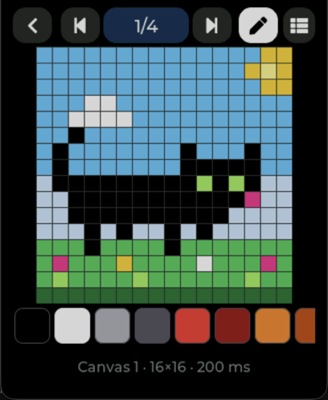
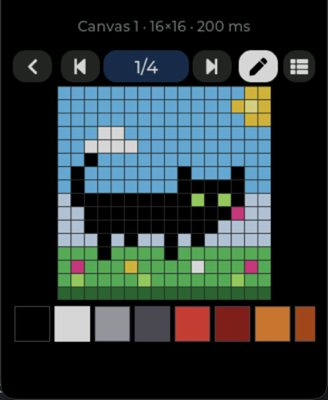
Pixel Art: nothing touchable above y = 56, the panel's other dead strip
Measured on the board: six taps on the editor's bar at y = 8..48 all
arrived as y = 55. The digitiser clamps at the top exactly as it does at
the bottom, so the usable touch window is 55..395. AOS_TOUCH_Y_MIN joins
AOS_TOUCH_Y_MAX in aos_hal.h, HARDWARE.md says so, and the app moves its
bar to 56..92, shrinks the canvas to 240 px and keeps the palette above
390. The status line goes into the top dead strip, which is only read.

diff --git a/apps/pixel/main/pixel.c b/apps/pixel/main/pixel.c
@@ -22,10 +22,10 @@
  *     Nothing is destroyed from inside an event callback, which is the rule
  *     this system enforces the hard way.
  *
- * Layout, dictated by the panel (see HARDWARE.md): nothing touchable below
- * y=390, the glass corners eat the first rows, so the bar is at y=8..48, the
- * canvas at 52..340, the palette strip at 344..386, and the dead strip at the
- * bottom carries the one line that is only read.
+ * Layout, dictated by the panel (see HARDWARE.md): the digitiser reports
+ * nothing above y=55 nor below y=395, so the bar is at y=56..92, the canvas
+ * at 96..336, the palette strip at 340..386, and the two dead strips carry
+ * the title and the status line, which are only read.
  */
 #include "aos_app.h"
 #include "aos_fonts.h"
@@ -45,13 +45,18 @@
 
 #define TAG             "pixel"
 
-#define CV_PX           288                 /* canvas side, px              */
-#define CV_X            40
-#define CV_Y            52
-#define BAR_Y           8
-#define BAR_H           40
-#define STRIP_Y         344
-#define STRIP_H         42
+/* The touch window of this panel is y = 55..395 (both measured, see
+ * AOS_TOUCH_Y_MIN / AOS_TOUCH_Y_MAX in aos_hal.h): 340 px for everything
+ * that has to be touched. The bar starts at 56, the canvas is 240 px so that
+ * a comfortable palette strip still fits above 390, and the top and bottom
+ * dead strips carry the title and the status line, which are only read. */
+#define CV_PX           240                 /* canvas side, px              */
+#define CV_X            64
+#define CV_Y            96
+#define BAR_Y           56
+#define BAR_H           36
+#define STRIP_Y         340
+#define STRIP_H         46
 #define SWATCH          40
 #define INFO_Y          400                 /* the dead strip: text only    */
 
@@ -536,12 +541,12 @@ static void build_gallery(app_t *a, lv_obj_t *root)
 
     bar_button(a->gal, LV_SYMBOL_LEFT, 14, 44, AOS_C_CARD2, gal_back_cb, a, NULL);
     lv_obj_t *title = aos_label(a->gal, "Pixel Art", aos_font_title, AOS_C_TEXT);
-    lv_obj_align(title, LV_ALIGN_TOP_MID, 0, 12);
+    lv_obj_align(title, LV_ALIGN_TOP_MID, 0, 12);      /* dead strip: text only */
 
     for (int i = 0; i < PX_SLOTS; i++) {
         int col = i % 4, row = i / 4;
         int32_t x = TH_X0 + col * (TH_BOX + TH_GAP);
-        int32_t y = 68 + row * (TH_BOX + 40);
+        int32_t y = 104 + row * (TH_BOX + 40);
 
         /* The canvas is the slot: clickable itself, border and badge painted
          * inside its buffer. */
@@ -567,7 +572,7 @@ static void build_gallery(app_t *a, lv_obj_t *root)
     lv_obj_set_width(hint, AOS_SCREEN_W - 40);
     lv_label_set_long_mode(hint, LV_LABEL_LONG_MODE_WRAP);
     lv_obj_set_style_text_align(hint, LV_TEXT_ALIGN_CENTER, 0);
-    lv_obj_align(hint, LV_ALIGN_TOP_MID, 0, 326);
+    lv_obj_align(hint, LV_ALIGN_TOP_MID, 0, 344);
     lv_obj_remove_flag(hint, LV_OBJ_FLAG_CLICKABLE);
 
     a->gal_info = aos_label_boxed(a->gal, "", aos_font_small, AOS_C_DIM, AOS_SCREEN_W, 20);
@@ -575,7 +580,7 @@ static void build_gallery(app_t *a, lv_obj_t *root)
     lv_obj_remove_flag(a->gal_info, LV_OBJ_FLAG_CLICKABLE);
 
     /* the "new document" overlay: which size */
-    a->sizer = card(root, 24, 96, 320, 236);
+    a->sizer = card(root, 24, 110, 320, 236);
     lv_obj_add_flag(a->sizer, LV_OBJ_FLAG_HIDDEN);
     lv_obj_t *t = aos_label(a->sizer, _("Nuevo lienzo"), aos_font_body, AOS_C_TEXT);
     lv_obj_align(t, LV_ALIGN_TOP_MID, 0, 16);
@@ -1046,7 +1051,7 @@ static void mi_del_doc_cb(lv_event_t *e)
 /* Twenty-one objects that exist only while the menu is on screen. */
 static void build_menu(app_t *a)
 {
-    a->menu = card(a->ed, 24, CV_Y, 320, 334);
+    a->menu = card(a->ed, 24, CV_Y, 320, 290);
     a->menu_del_req = false;
     lv_obj_add_flag(a->menu, LV_OBJ_FLAG_HIDDEN);
     lv_obj_add_flag(a->menu, LV_OBJ_FLAG_SCROLLABLE);
@@ -1129,8 +1134,10 @@ static void build_editor(app_t *a, lv_obj_t *root)
     lv_obj_add_event_cb(a->pal, swatch_cb, LV_EVENT_CLICKED, a);
     draw_palette(a);
 
+    /* the status line goes in the TOP dead strip: read only, and the bar
+     * below it is where the fingers are */
     a->info = aos_label_boxed(a->ed, "", aos_font_small, AOS_C_DIM, AOS_SCREEN_W, 20);
-    lv_obj_set_pos(a->info, 0, INFO_Y);
+    lv_obj_set_pos(a->info, 0, 18);
     lv_obj_remove_flag(a->info, LV_OBJ_FLAG_CLICKABLE);
 
 }

diff --git a/components/aos_hal/include/aos_hal.h b/components/aos_hal/include/aos_hal.h
@@ -86,6 +86,13 @@ extern "C" {
  * -------------------------------------------------------------------------- */
 #define AOS_TOUCH_Y_MAX     390     /* 395 measured, with 5 px of margin */
 
+/* And the top has the same problem, measured on 2026-09-11 with the Pixel
+ * Art app: six taps on a bar of buttons at y = 8..48 all came in as y = 55,
+ * whatever the finger did. The digitiser clamps there. So the usable touch
+ * window is 55..395, and anything that has to be touched goes at y >= 56.
+ * The first rows are for text -a title, a score- exactly like the last. */
+#define AOS_TOUCH_Y_MIN     56
+
 /* -------------------------------------------------------------------------- */
 /* Battery / PMU (AXP2101)                                                     */
 /* -------------------------------------------------------------------------- */

diff --git a/apps/pixel/README.md b/apps/pixel/README.md
@@ -60,10 +60,20 @@ palette so that a file with different colours still opens: the loader maps it
 onto ours by nearest colour. The portal page has the same reader and writer in
 JavaScript; the firmware never parses one, it only stores and serves bytes.
 
+## The layout, and the panel that decides it
+
+The digitiser of this board reports nothing above y = 55 nor below y = 395
+(both measured; see `AOS_TOUCH_Y_MIN` / `AOS_TOUCH_Y_MAX` in `aos_hal.h`).
+The first version put its bar of buttons at y = 8..48, which the simulator
+happily accepts, and on the watch every tap on it arrived as y = 55: the bar
+was dead. So everything touchable lives in 56..390: the bar at 56..92, the
+canvas at 96..336, the palette at 340..386; the two dead strips carry only
+what is read, the status line at the top.
+
 ## How it draws, and what it cost
 
-- **One canvas of 288x288 RGB565 shown 1:1**, 166 KB in PSRAM through
-  `malloc()`. Painting a cell writes that square into the buffer and calls
+- **One canvas of 240x240 RGB565 shown 1:1**, 115 KB in PSRAM through
+  `malloc()`; a cell is 15 px (16x16) or 30 px (8x8). Painting a cell writes that square into the buffer and calls
   `lv_obj_invalidate_area()` on it alone: LVGL blits a few hundred pixels. A
   frame change rewrites the buffer and invalidates once.
 - **Nothing is destroyed from an event callback.** Both screens are built at

diff --git a/docs/HARDWARE.md b/docs/HARDWARE.md
@@ -62,6 +62,14 @@ frees up live pixels higher up. Several apps do exactly that.
 
 See `AOS_TOUCH_Y_MAX` in [`components/aos_hal/include/aos_hal.h`](../components/aos_hal/include/aos_hal.h).
 
+**The top has the same limit.** Measured on 2026-09-11 with the Pixel Art
+app: six taps on a bar of buttons at y = 8..48 all arrived as y = 55, whatever
+the finger did, so the digitiser clamps there too. The usable touch window is
+**55..395** — 340 of the 448 rows. Anything that has to be touched goes at
+y >= `AOS_TOUCH_Y_MIN` (56); the first rows, like the last, are for text.
+Bars of buttons placed at y = 8 in older apps are worth re-checking on the
+board.
+
 ### The v2's touch chip falls asleep
 
 The v2 carries a **CST820** (ID `0xB7`), not the CST816S the BSP claims. It
